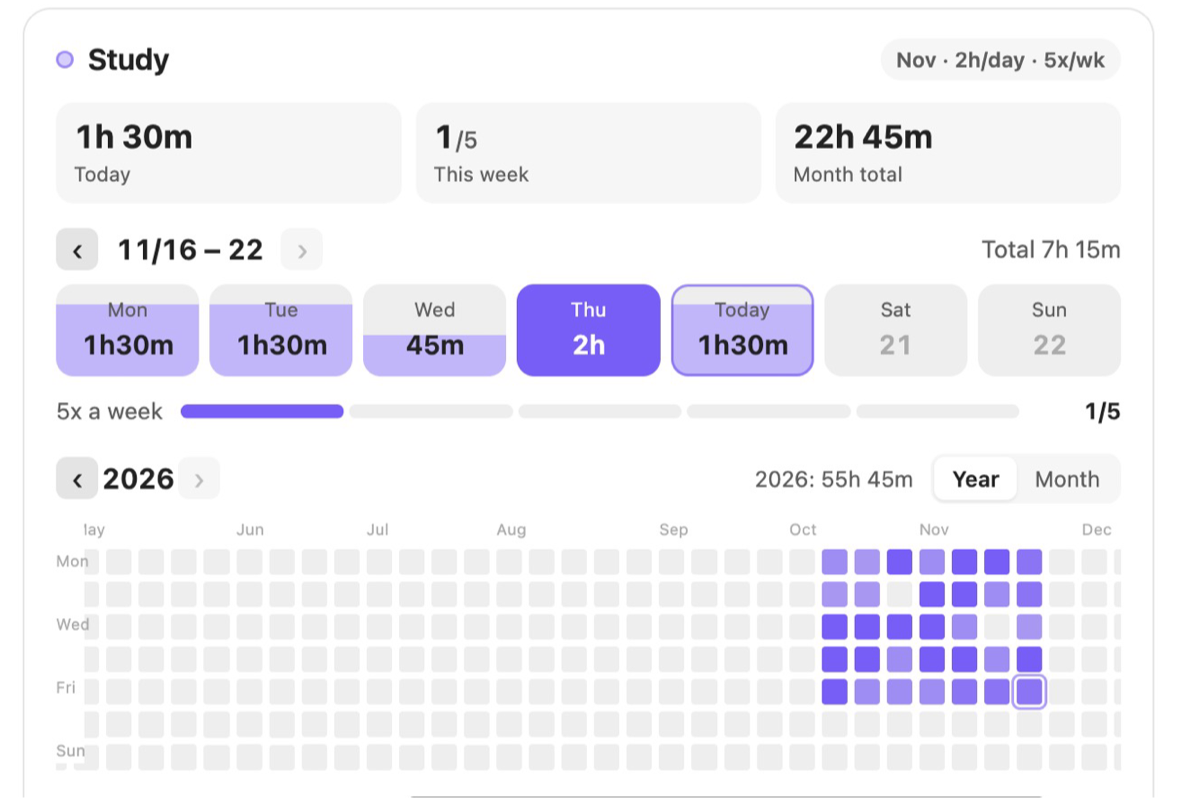
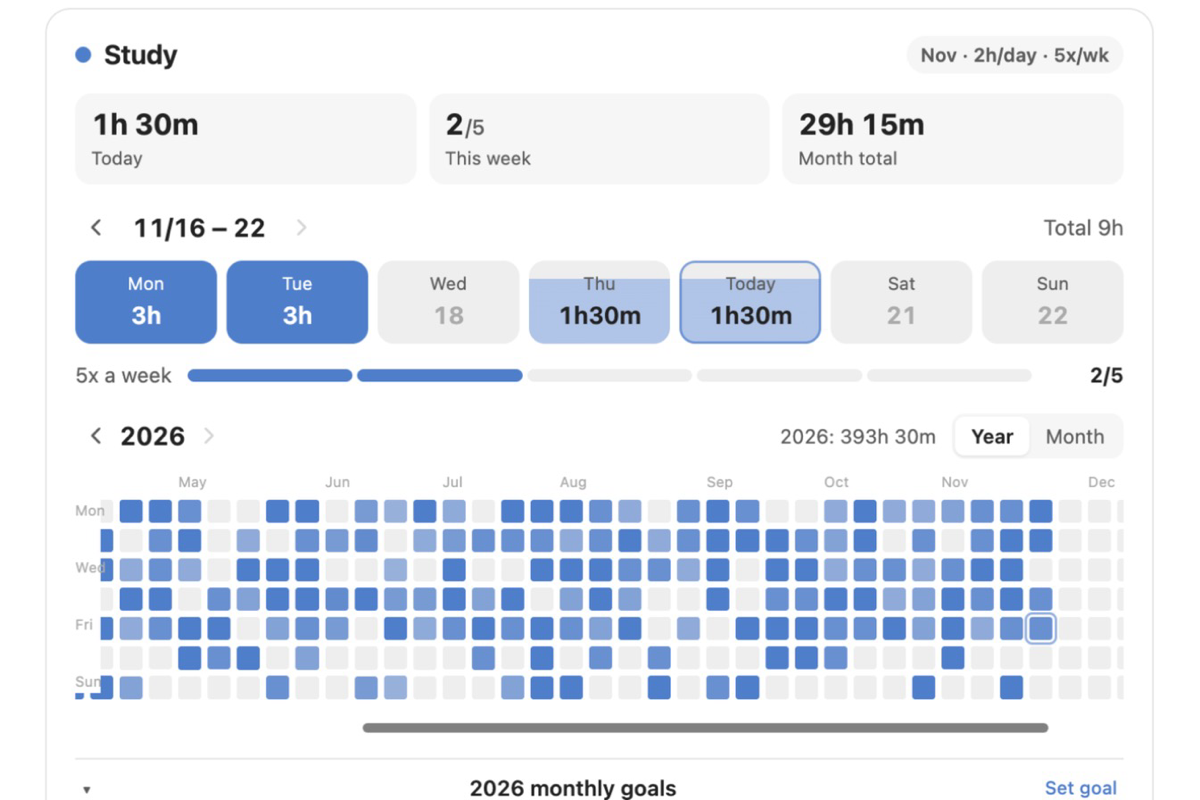
docs: retake README screenshots and add monthly goals and item habit views

diff --git a/README.md b/README.md
@@ -35,6 +35,8 @@ The plugin only reads and writes Markdown files in your vault. It makes no netwo
 - **Goals** – a daily goal per month for amount habits, plus goal-week statistics.
 
   ![Amount habit with a daily goal](./images/amount-habit.png)
+
+  ![Monthly goals dialog](./images/monthly-goals.png)
 - **Edit by clicking** – click a cell to add or remove a record, or fill in past days from the log dialog.
 - **Today row** – the top of the dashboard shows what to do today. Switch between *Day* (the last 14 days in a sideways-scrolling strip) and *Week* (one row per habit, one column per weekday; tap a cell to log that day, and page back through earlier weeks). Each row ends with done/goal for the week, using the times per week or weekdays you chose (every day if you set none); once the goal is met the remaining days switch to a light tint of the habit color. The choice is remembered. Use the `▾` button to fold the row down to its header; the state is remembered too.
 - **Archive** – finished habits move to an archive folder; records are kept and can be restored.
@@ -156,6 +158,8 @@ An item habit is a habit with things you did under it, like Workout → squats, 
 - **Delete a day**: *Delete this day's record* in the dialog.
 
 Items are stored on the day's line in the habit file, so you can also edit them by hand.
+
+![Item habit detail](./images/item-habit.png)
 
 ![Item dialog](./images/item-dialog.png)
 
